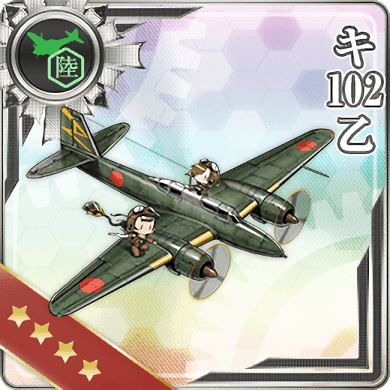
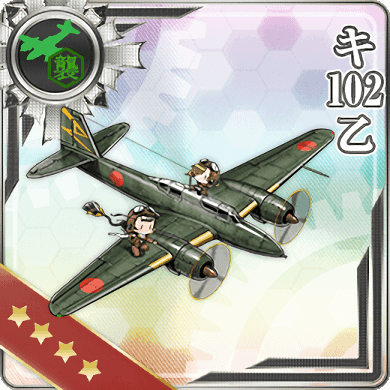
新装備追加

diff --git a/js/data.js b/js/data.js
@@ -98,6 +98,7 @@ const ITEM_ICON_TYPE = [
 	{ id: 45, name: "夜間戦闘機", css: "css_cb_night_aircraft" },
 	{ id: 46, name: "夜間攻撃機", css: "css_cb_night_aircraft" },
 	{ id: 47, name: "陸上対潜哨戒機", css: "css_lb_asw_aircraft" },
+	{ id: 48, name: "陸上襲撃機", css: "css_lb_attack_aircraft" },
 	{ id: 49, name: "大型陸上機", css: "css_lb_attack_aircraft" },
 ];
 const ITEM_DATA = [
@@ -512,7 +513,8 @@ const ITEM_DATA = [
 	{ id: 432, type: 47, itype: 37, name: "SM.79 bis", abbr: "", fire: 0, antiAir: 3, torpedo: 12, bomber: 14, armor: 0, asw: 4, antiBomber: 0, interception: 0, scout: 3, canRemodel: 1, accuracy: 0, avoid2: 0, radius: 8, cost: 13, avoid: 0, range2: 0, grow: 8 },
 	{ id: 433, type: 47, itype: 37, name: "SM.79 bis(熟練)", abbr: "", fire: 0, antiAir: 3, torpedo: 13, bomber: 14, armor: 0, asw: 4, antiBomber: 0, interception: 0, scout: 3, canRemodel: 0, accuracy: 2, avoid2: 0, radius: 8, cost: 14, avoid: 1, range2: 0, grow: 6 },
 	{ id: 444, type: 47, itype: 37, name: "四式重爆 飛龍+イ号一型甲 誘導弾", abbr: "四式重爆 飛龍+イ号一型甲", fire: 0, antiAir: 5, torpedo: 15, bomber: 20, armor: 0, asw: 3, antiBomber: 0, interception: 0, scout: 4, canRemodel: 1, accuracy: 1, avoid2: 0, radius: 5, cost: 15, avoid: 1, range2: 0, grow: 0 },
-	{ id: 453, type: 47, itype: 44, name: "キ102乙", abbr: "", fire: 4, antiAir: 4, torpedo: 11, bomber: 19, armor: 0, asw: 4, antiBomber: 0, interception: 0, scout: 0, canRemodel: 1, accuracy: 4, avoid2: 0, radius: 4, cost: 9, avoid: 1, range2: 0, grow: 0 },
+	{ id: 453, type: 47, itype: 48, name: "キ102乙", abbr: "", fire: 4, antiAir: 4, torpedo: 11, bomber: 19, armor: 0, asw: 4, antiBomber: 0, interception: 0, scout: 0, canRemodel: 1, accuracy: 4, avoid2: 0, radius: 4, cost: 9, avoid: 1, range2: 0, grow: 0 },
+	{ id: 454, type: 47, itype: 48, name: "キ102乙改+イ号一型乙 誘導弾", abbr: "", fire: 4, antiAir: 3, torpedo: 14, bomber: 20, armor: 0, asw: 4, antiBomber: 0, interception: 0, scout: 0, canRemodel: 1, accuracy: 3, avoid2: 0, radius: 3, cost: 12, avoid: 2, range2: 0, grow: 0 },
 	{ id: 175, type: 48, itype: 38, name: "雷電", abbr: "", fire: 0, antiAir: 6, torpedo: 0, bomber: 0, armor: 0, asw: 0, antiBomber: 5, interception: 2, scout: 0, canRemodel: 0, accuracy: 0, avoid2: 0, radius: 2, cost: 6, avoid: 0, range2: 0, grow: 5 },
 	{ id: 176, type: 48, itype: 44, name: "三式戦 飛燕", abbr: "", fire: 0, antiAir: 8, torpedo: 0, bomber: 0, armor: 0, asw: 0, antiBomber: 1, interception: 3, scout: 0, canRemodel: 1, accuracy: 0, avoid2: 0, radius: 3, cost: 7, avoid: 0, range2: 0, grow: 5 },
 	{ id: 177, type: 48, itype: 44, name: "三式戦 飛燕(飛行第244戦隊)", abbr: "三式戦飛燕(第244戦隊)", fire: 0, antiAir: 9, torpedo: 0, bomber: 0, armor: 0, asw: 0, antiBomber: 3, interception: 4, scout: 0, canRemodel: 1, accuracy: 0, avoid2: 0, radius: 4, cost: 7, avoid: 0, range2: 0, grow: 6 },
